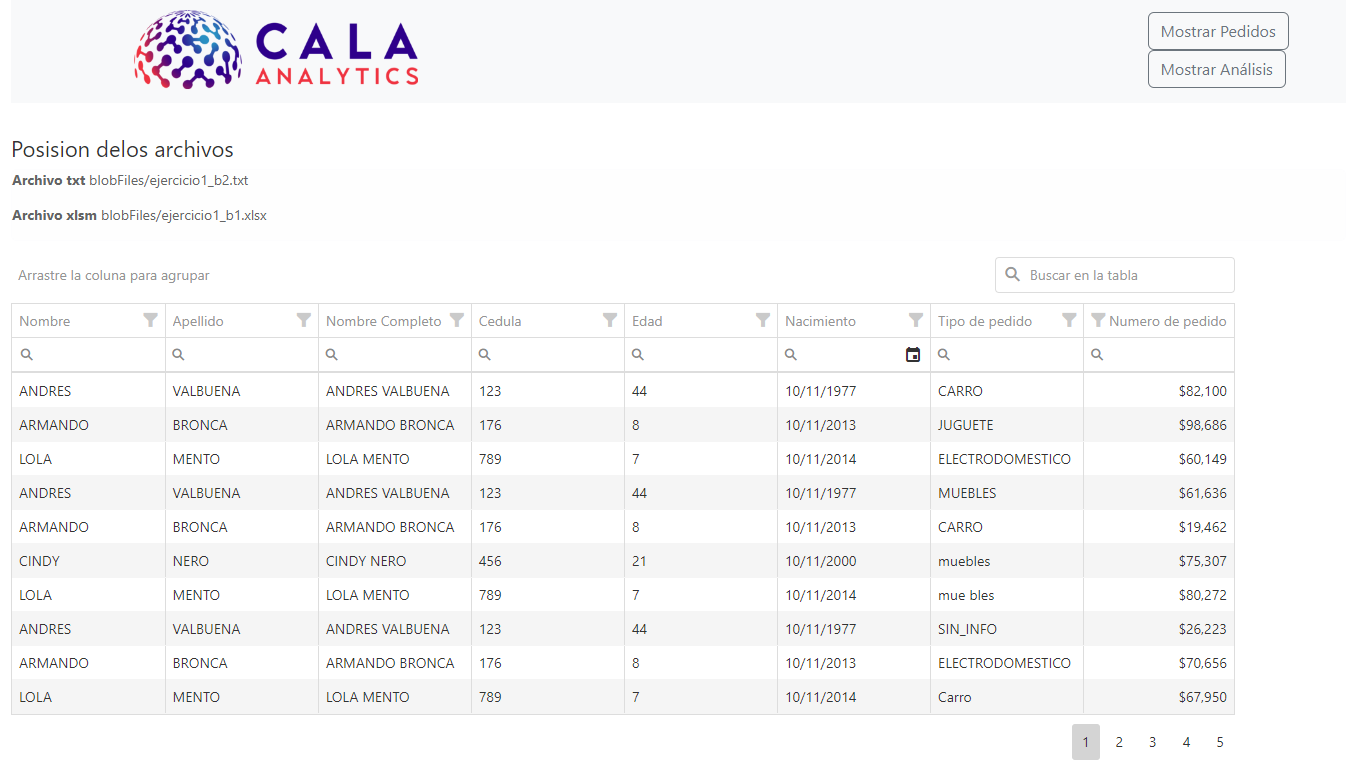
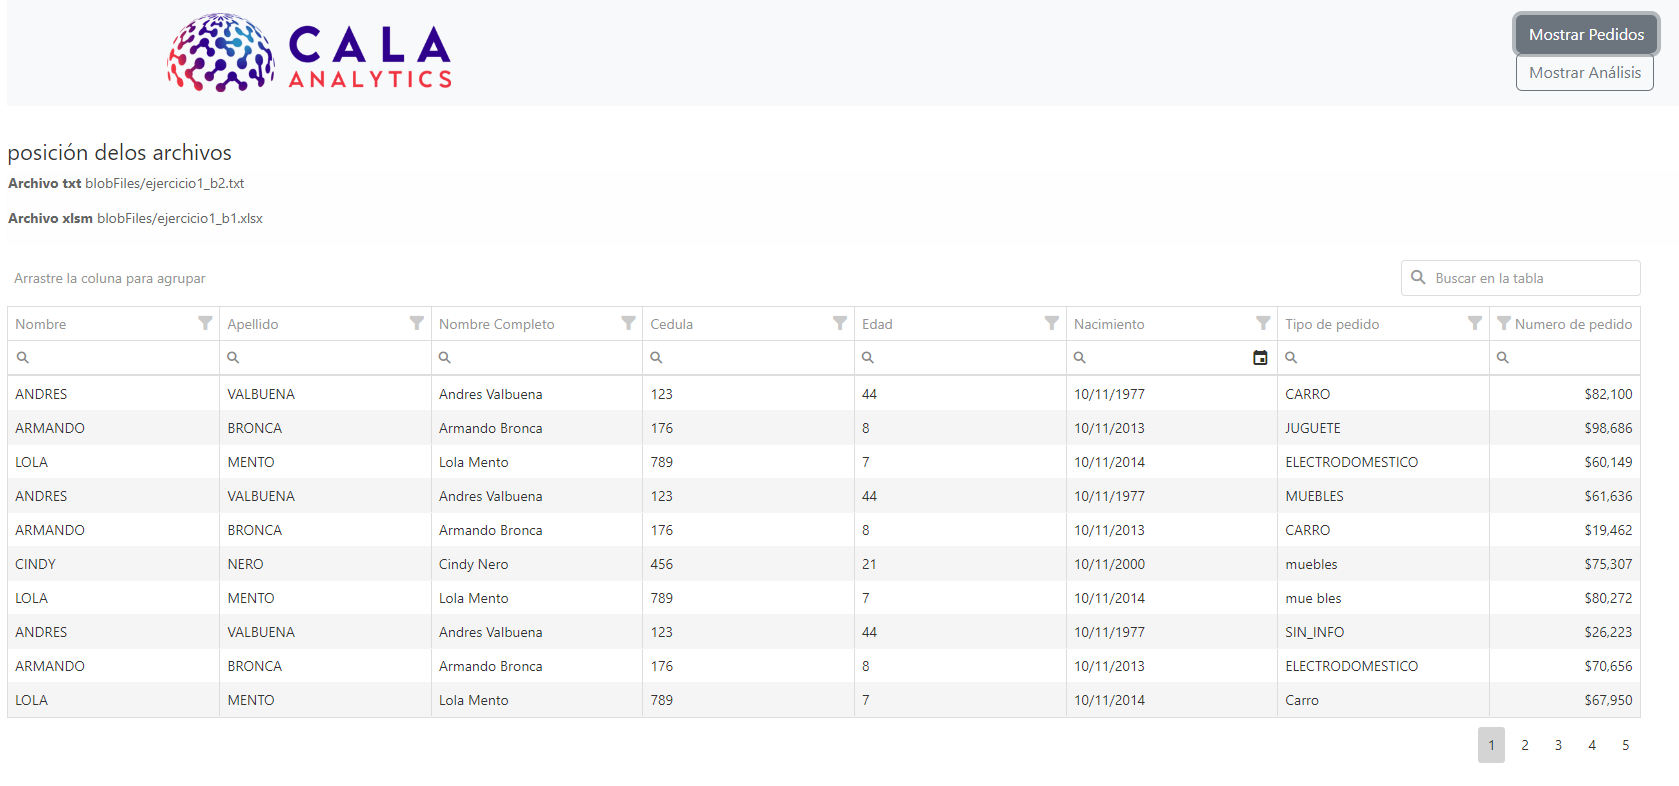
removiendo picache (#7)
* generando documentacionn

* feat: adicionando dockerfile y actualizando documentacion

* actualizacion de instrucciones

* ajustes de documentacion docker

* api

* actualiacion de codigo y documentacion

* ajustes a responsi de grafica

* update gitignore

* eliminando carpertas __pycache__

diff --git a/fronend/index.html b/fronend/index.html
@@ -20,6 +20,10 @@
         .span-b {
             font-weight: bold
         }
+
+        #badCanvas1 {
+            height: 600px !important;
+        }
     </style>
 </head>
 
@@ -49,8 +53,7 @@
         </div>
         <div class="col col-11">
             <div id="gridContainer"></div>
-            <div id="chart"></div>
-            <canvas id="badCanvas1"></canvas>
+            <canvas id="badCanvas1" height="800px"></canvas>
         </div>
     </div>
 

diff --git a/fronend/main.js b/fronend/main.js
@@ -77,7 +77,7 @@ $(() => {
       },
       options: {
         indexAxis: "y",
-
+        maintainAspectRatio: false,
         elements: {
           bar: {
             borderWidth: 2,

diff --git a/app/utils/loadfiles.py b/app/utils/loadfiles.py
@@ -18,8 +18,8 @@ class LoadFiles(metaclass=SingletonMeta):
         table = self.LoadFileExcel(blob, files, self.loadFileTxt(blob, files))
 
         dataFrame = pd.DataFrame({
-            "Nombre": table['NOMBRE'],
-            "Apellido": table['APELLIDO'],
+            "Nombre": table['NOMBRE'].str.upper(),
+            "Apellido": table['APELLIDO'].str.upper(),
             "Cedula": table['CEDULA'],
             "Nacimiento": table['NACIMIENTO'],
             "Nombre Completo": "",
@@ -29,7 +29,7 @@ class LoadFiles(metaclass=SingletonMeta):
         })
         dataFrame = dataFrame.drop_duplicates(['Cedula', 'Tipo de pedido'])
         dataFrame['Nombre Completo'] = dataFrame[[
-            'Nombre', 'Apellido']].apply(' '.join, axis=1)
+            'Nombre', 'Apellido']].apply(' '.join, axis=1).str.title()
         return dataFrame
 
     def LoadFileExcel(self, blob, files, bufferTxt):

diff --git a/README.md b/README.md
@@ -89,3 +89,5 @@ web inicial
   ![alt text](./imgs/g1.PNG)
 - agrupando columnas y aplicando filtros
   ![alt text](./imgs/g2.PNG)
+- grafica
+  ![alt text](./imgs/analitic.PNG)
